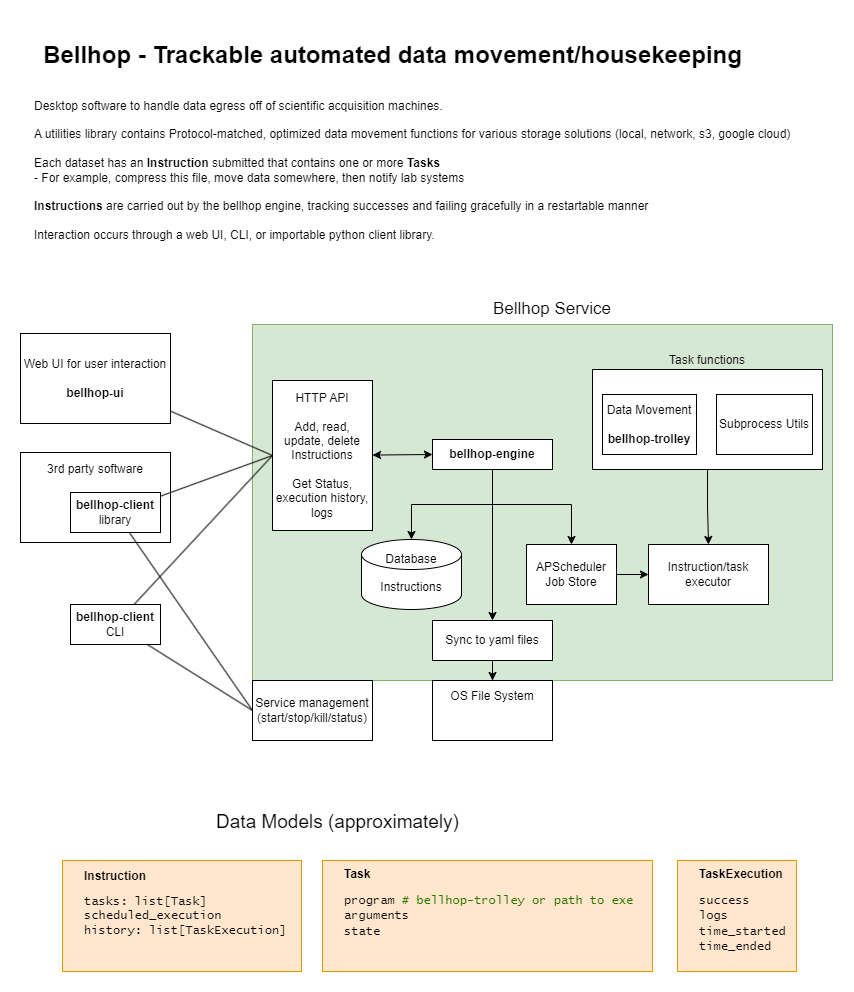
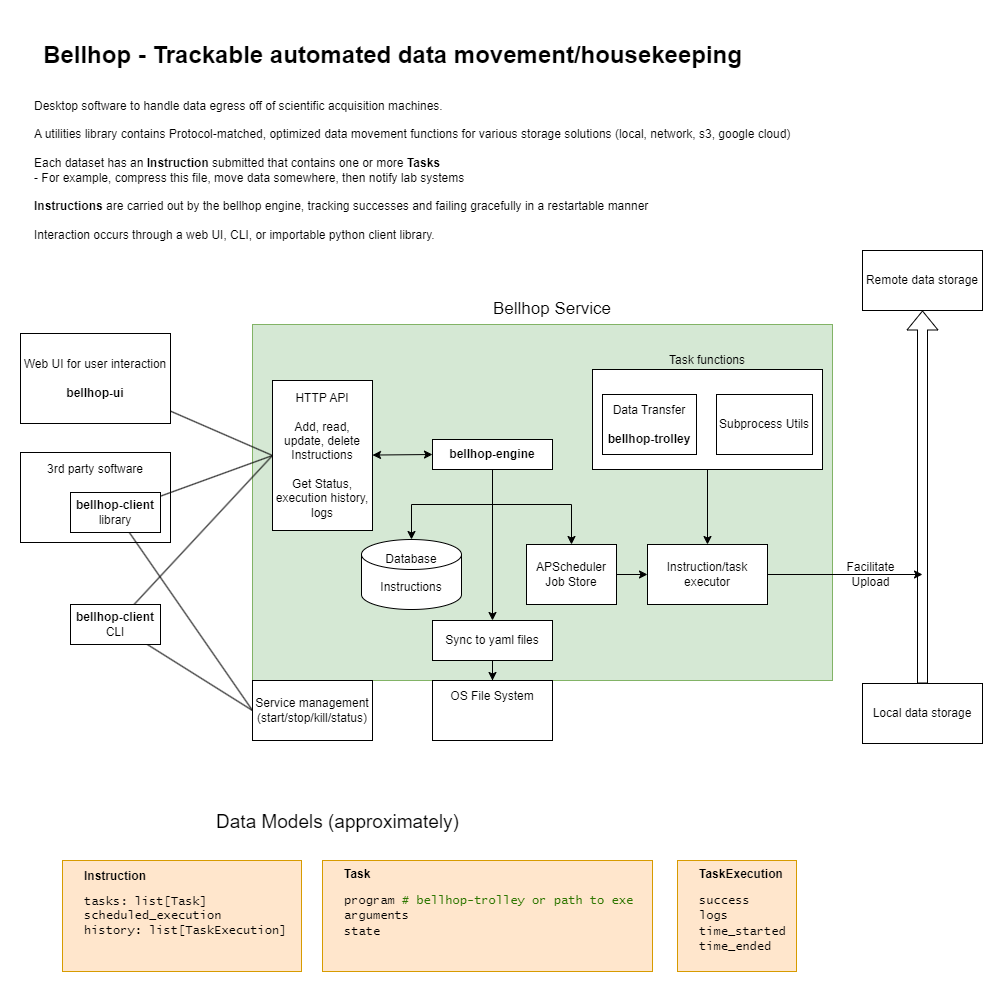
Address some PR comments

diff --git a/docs/architecture.md b/docs/architecture.md
@@ -2,11 +2,11 @@
 
 ## Introduction
 
-Bellhop is a tool to handle the movement of scientific data off an experimental computer after it is acquired. 
+Bellhop is a system designed to manage the transfer of scientific data from experimental computing environments once acquisition is complete. 
 
 ### Prototypical Use Case
 
-Scientific data is collected and saved to the local storage of a lab/acquisition computer, and the data needs to be transferred off the computer into some centralized storage solution. Many trials are collected, and each dataset needs to be handled identically. A potential simple procedure for data egress is:
+Scientific data is collected and saved to the local storage of a lab/acquisition computer, and the data needs to be transferred off the computer into some centralized storage solution. Many sessions are collected, and each dataset needs to be handled identically. A potential simple procedure for data egress is:
 
 1. Copy the data files from a local drive to a shared network location
 2. Notify the lab's database that the experiment is complete and the data is now available
@@ -46,7 +46,7 @@ file.write_text('hello')
 
 So why not just use fsspec libraries for data movement?
 
-In the future, ideally that would be possible, but in its current state fsspec isn't exactly optimized for performance (see [this issue](https://github.com/fsspec/s3fs/issues/900)). It works great for small files, but moving large amounts of data is still best left to other libraries.
+In the future, ideally that would be possible, but in its current state fsspec hasn't been performance-optimized to the same level as other, more specific tools. It works great for small files (and is improving for large files), but moving large amounts of data is still best left to other libraries.
 
 ### Design
 
@@ -84,7 +84,7 @@ def move_file(source: UPath, destination: UPath):
 
 #### Configurability
 
-An upload library like `boto3` might have some configuration options. Those can be set from a bellhop-trolley config file, and optionally overridden for any specific instance of
+An upload library like `boto3` might have some configuration options. Those can be set from a bellhop-trolley config file, and optionally overridden for any specific invocation.
 
 Additionally, there may be a few library options for a given storage implementation. For instance, local copies can either use the builtin Python `shutil` library, or call a command-line tool like `robocopy`. Bellhop-trolley contains shims for many of these options, and loads configuration to dictate which one gets used by default.
 
@@ -117,7 +117,7 @@ The bellhop-engine runs in the background as a service.
 
 ### Templates
 
-The bellhop engine can store Instruction templates, which make it easier to create a concrete Instruction for a specific dataset based on a general pattern. Templates will (likely) be stored as yaml files parametrized using jinja variables like the following example:
+The bellhop engine can store Instruction templates, which make it easier to create a concrete Instruction for a specific dataset based on a general pattern. Templates will be stored as yaml files parametrized using jinja variables like the following example:
 
 ```yaml
 name: Upload {{ barcode }} Dataset
@@ -143,10 +143,12 @@ The Bellhop UI offers a web interface for interacting with the engine via its RE
 
 The UI visualizes completed, in-progress, and scheduled Instructions and Tasks, and provides a clickable interface to dig into status or errors. 
 
+Additionally, the UI provides the ability to manually submit an instruction, or edit and retry a failed one.
+
 ## Bellhop-Client
 
 The Bellhop-client is a programmatic interface to the engine's REST API, allowing operations like submitting/updating instructions, or investigating status.
 
 The client can be imported as a python library for use within code, or run directly from the command line.
 
-Additionally, the client has access to the service management component, so it can start/restart/end/monitor the bellhop-engine process. A use case for this is if the engine dies for some reason, a client submitting an instruction can first restart the engine to ensure it's running.
+Additionally, the client has access to the service management component, so it can start/restart/end/monitor the bellhop-engine process. In case of an unexpected crash, a client submitting an instruction can first restart the engine to ensure it's running.
